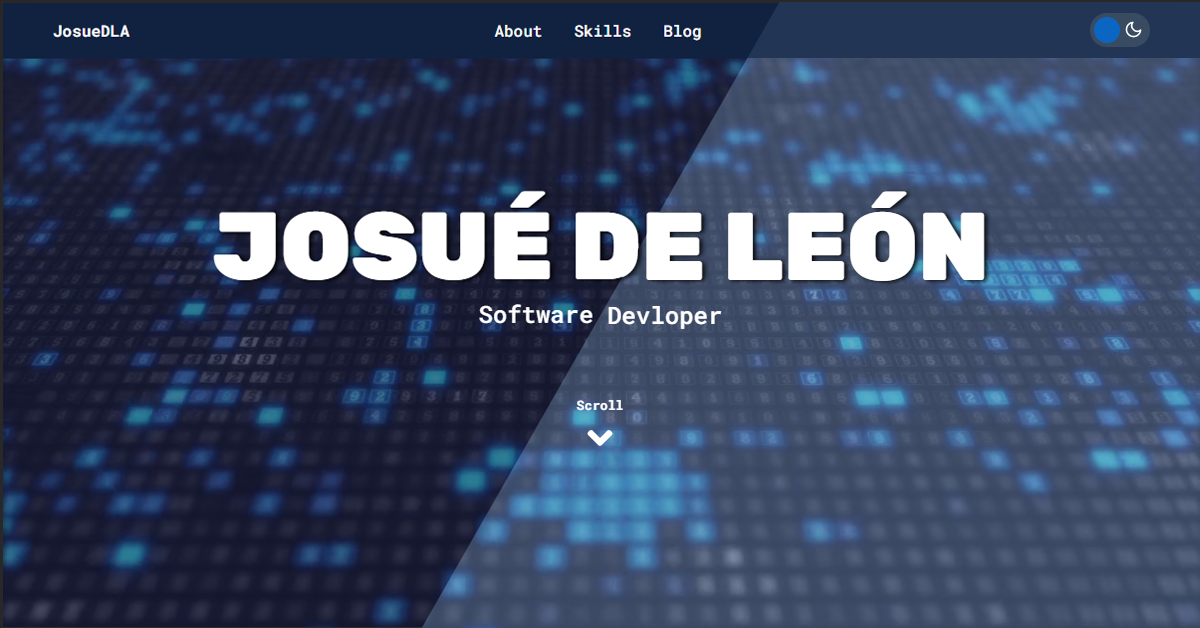
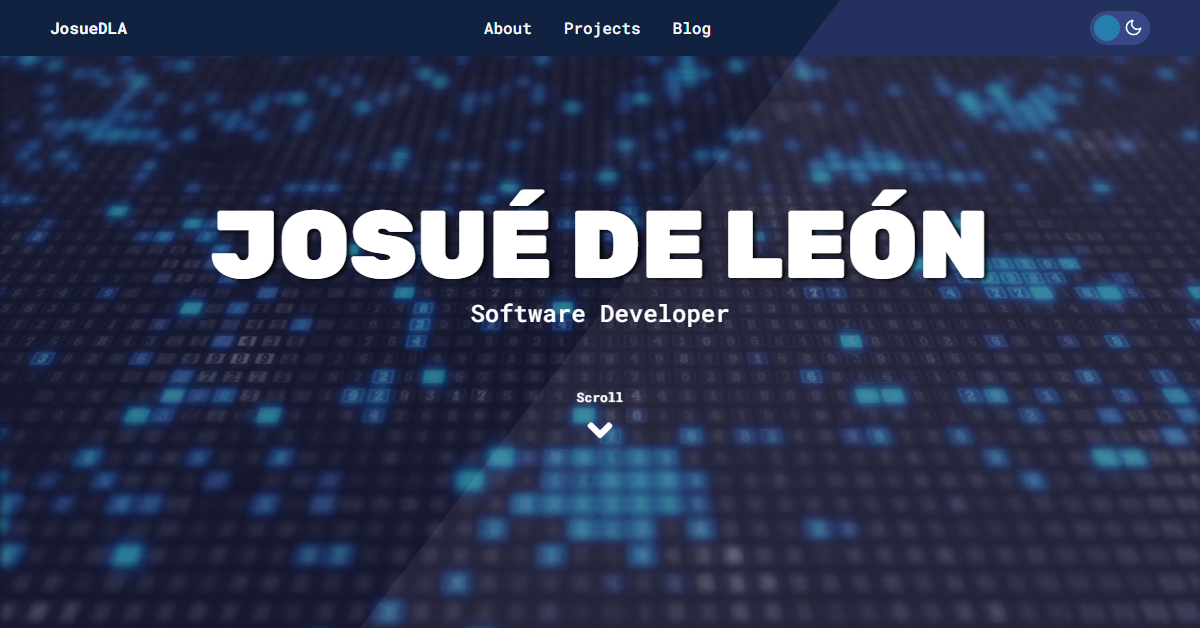
Fix Typo in Home Page

diff --git a/src/components/Home/Home.tsx b/src/components/Home/Home.tsx
@@ -23,7 +23,7 @@ const Home: React.FC<HomeProps> = () => {
       </HomeBg>
       <HomeContent>
         <HomeH1>Josué de León</HomeH1>
-        <HomeP>Software Devloper</HomeP>
+        <HomeP>Software Developer</HomeP>
         <ScrollButton to="about">
           <FaAngleDown />
         </ScrollButton>
